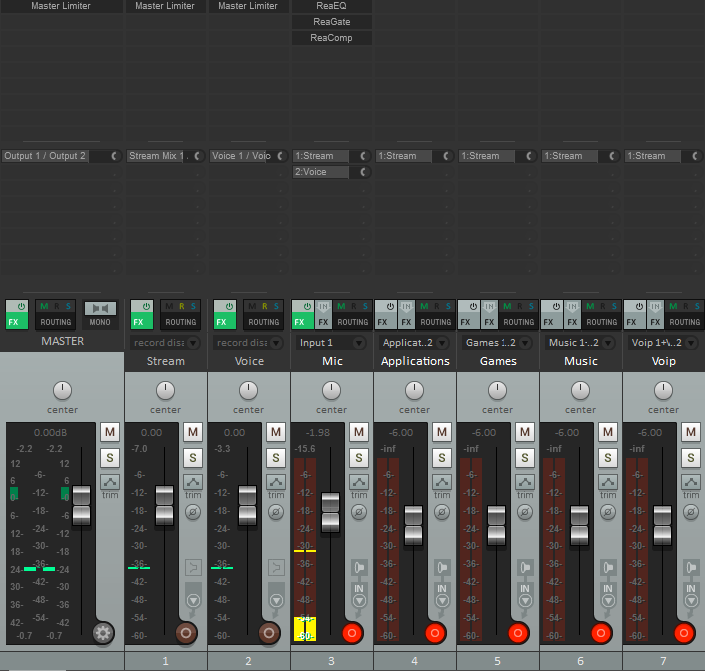
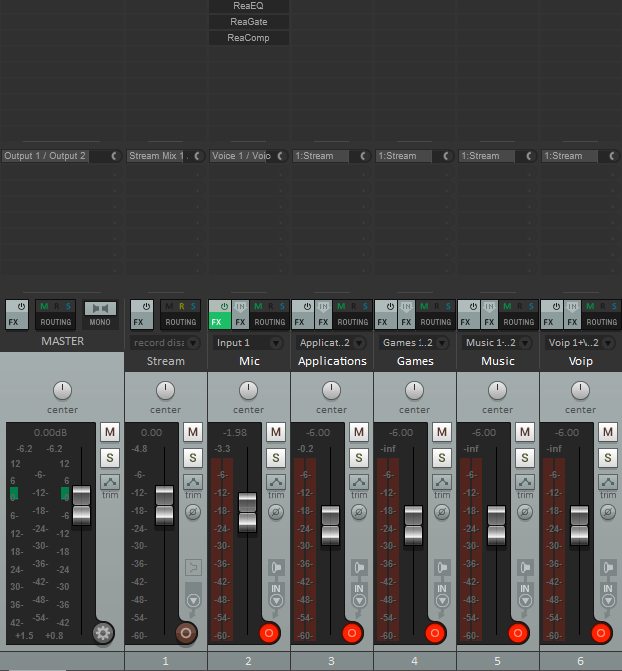
finished daw routing guide

diff --git a/docs/audio/routing-single.md b/docs/audio/routing-single.md
@@ -65,13 +65,34 @@ is basically the same for any channel, whether it's a Microphone, an Application
 * Turn Monitoring to ON
 * Arm the Track for Recording
 
-You should now be able to hear things coming from this input. It's probably a good idea to set all your channels to -6dB
-initially, so you never run into clipping issues. To tune the volume of your stream as a whole, you can make up the lost
-volume by putting a
+![Microphone channel](../resources/reaper-channel.png)
 
-![Reaper ASIO settings](../resources/reaper-channel.png)
+You should now be able to hear things coming from this input. Next, repeat this for all the input channels you have.
+It's probably a good idea to set all your channels to -6dB initially, so you never run into clipping issues. You can
+always make up the lost volume in a limiter on the master.
 
-Ymmv for different DAWs, but it'll be along these lines.
+Now you'll want to set up a bus channel for your stream mix and send the microphone channel to a separate output. Create
+a channel, open its routing panel and select *Add new hardware output -> Stream Mix 1/Stream Mix 2* (assuming you used
+the config file from above). Deselect *Send to Master*, and use *Add new receive -> Add receives from all tracks*. After
+this the routing panel for the channel should look something like this: ![Routing panel](../resources/stream-routing.png)
+
+Alternatively, you could also just add the Stream output to your master channel, however you won't be able to exclude
+certain channels from the stream if you do this. With the setup like above, you could just remove the send to stream from
+any of the individual channels or turn down its volume to -inf dB and you'll have muted just that channel for the stream,
+but you can still hear it.
+
+Finally, add the *Voice 1/Voice 2* outputs to your Microphone channel.
+
+You can now select the two audio devices (Voice and Stream) in the OBS settings. They will both be windows recording devices, so they'll
+be listed under *Mic/Auxiliary Audio Device* in OBS Studio. There should be no other Audio devices selected in the OBS settings.
+OBS should pick up your Audio now.
+
+The final Reaper mixer panel looks like this now:
+
+![Mixer](../resources/reaper-mixer.png)
+
+Next, you could add some VST plugins to your voice channel (like I have done here) and continue to customize things however
+you need them.
 
 [SAR]: https://github.com/eiz/SynchronousAudioRouter/releases "Synchronous Audio Router"
 [Asio4All]: http://www.asio4all.com/
